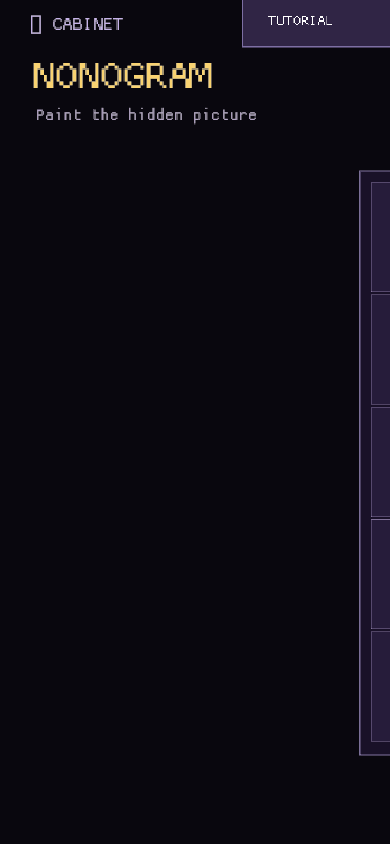
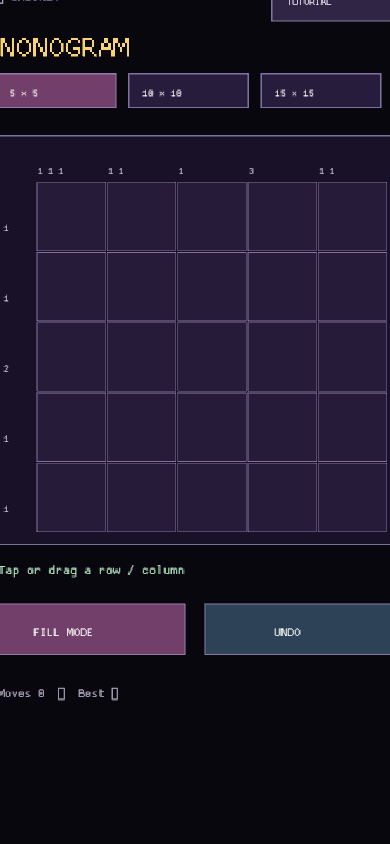
The hidden picture opens on a pocket-sized table (Compact Nonogram)
Added a compact portrait Nonogram layout with visible row and column clues, preset selection, fill/cross mode, undo, tap input, and axis-locked drag mapping. Kept the puzzle module separate from the compact cabinet/Sudoku UI to preserve the source-size gate. Verified the 390x844 capture, full tests, and publisher deployment.

diff --git a/src/responsive_puzzles.rs b/src/responsive_puzzles.rs
@@ -1,0 +1,196 @@
+//! Compact portrait layouts for dense grid puzzles.
+
+use crate::{
+    grid::GridLayout,
+    nonogram::{NonogramMark, NonogramMode, NonogramStatus},
+    state::AppState,
+    ui::UiAction,
+};
+use macroquad::prelude::*;
+
+fn panel(rect: Rect, fill: Color) {
+    draw_rectangle(rect.x, rect.y, rect.w, rect.h, fill);
+    draw_rectangle_lines(
+        rect.x,
+        rect.y,
+        rect.w,
+        rect.h,
+        2.,
+        Color::new(0.45, 0.38, 0.65, 0.65),
+    );
+}
+fn text(value: &str, x: f32, y: f32, size: f32, color: Color) {
+    draw_text(value, x, y, size, color);
+}
+
+const BOARD: Rect = Rect {
+    x: 5.,
+    y: 145.,
+    w: 350.,
+    h: 350.,
+};
+
+fn grid(state: &AppState) -> GridLayout {
+    GridLayout::new(
+        Rect::new(45., 185., 300., 300.),
+        state.nonogram.size,
+        state.nonogram.size,
+    )
+}
+
+pub fn draw_nonogram(state: &AppState) {
+    let game = &state.nonogram;
+    text("‹ CABINET", 10., 30., 14., Color::new(0.78, 0.70, 0.92, 1.));
+    text("NONOGRAM", 12., 78., 32., Color::new(0.98, 0.83, 0.45, 1.));
+    for (index, preset) in crate::nonogram::NonogramPreset::ALL.iter().enumerate() {
+        let rect = Rect::new(10. + index as f32 * 113., 92., 103., 30.);
+        panel(
+            rect,
+            if *preset == game.preset {
+                Color::new(0.45, 0.25, 0.42, 1.)
+            } else {
+                Color::new(0.16, 0.11, 0.24, 1.)
+            },
+        );
+        text(preset.label(), rect.x + 12., rect.y + 20., 11., WHITE);
+    }
+    panel(BOARD, Color::new(0.10, 0.07, 0.16, 1.));
+    let layout = grid(state);
+    for index in 0..game.marks.len() {
+        let cell = layout.cell_rect(index).unwrap();
+        let rect = Rect::new(cell.x, cell.y, cell.w - 1., cell.h - 1.);
+        let selected = game.selected == Some(index);
+        let fill = match game.marks[index] {
+            NonogramMark::Filled => Color::new(0.80, 0.52, 0.26, 1.),
+            NonogramMark::Crossed => Color::new(0.20, 0.14, 0.28, 1.),
+            NonogramMark::Empty if selected => Color::new(0.30, 0.22, 0.42, 1.),
+            NonogramMark::Empty => Color::new(0.15, 0.11, 0.23, 1.),
+        };
+        draw_rectangle(rect.x, rect.y, rect.w, rect.h, fill);
+        draw_rectangle_lines(
+            rect.x,
+            rect.y,
+            rect.w,
+            rect.h,
+            1.,
+            Color::new(0.48, 0.40, 0.60, 0.8),
+        );
+        if game.marks[index] == NonogramMark::Crossed {
+            text(
+                "×",
+                rect.x + rect.w * 0.28,
+                rect.y + rect.h * 0.70,
+                (rect.w * 0.7).min(20.),
+                Color::new(0.65, 0.58, 0.76, 1.),
+            );
+        }
+    }
+    for (index, clue) in game.row_clues.iter().enumerate() {
+        let label = clue
+            .iter()
+            .map(|value| value.to_string())
+            .collect::<Vec<_>>()
+            .join(" ");
+        text(
+            &label,
+            7.,
+            190. + index as f32 * layout.cell_height + layout.cell_height * 0.62,
+            (layout.cell_height * 0.30).min(11.),
+            Color::new(0.78, 0.73, 0.86, 1.),
+        );
+    }
+    for (index, clue) in game.column_clues.iter().enumerate() {
+        let label = clue
+            .iter()
+            .map(|value| value.to_string())
+            .collect::<Vec<_>>()
+            .join(" ");
+        text(
+            &label,
+            46. + index as f32 * layout.cell_width,
+            178.,
+            (layout.cell_width * 0.28).min(10.),
+            Color::new(0.78, 0.73, 0.86, 1.),
+        );
+    }
+    text(
+        if game.status == NonogramStatus::Won {
+            "Picture complete"
+        } else {
+            "Tap or drag a row / column"
+        },
+        12.,
+        520.,
+        14.,
+        Color::new(0.63, 0.95, 0.72, 1.),
+    );
+    panel(
+        Rect::new(12., 545., 160., 44.),
+        if game.mode == NonogramMode::Fill {
+            Color::new(0.45, 0.25, 0.42, 1.)
+        } else {
+            Color::new(0.20, 0.13, 0.30, 1.)
+        },
+    );
+    text(
+        if game.mode == NonogramMode::Fill {
+            "FILL MODE"
+        } else {
+            "CROSS MODE"
+        },
+        42.,
+        573.,
+        13.,
+        WHITE,
+    );
+    panel(
+        Rect::new(188., 545., 160., 44.),
+        Color::new(0.18, 0.26, 0.34, 1.),
+    );
+    text("UNDO", 247., 573., 13., WHITE);
+    text(
+        &format!(
+            "Moves {}  •  Best {}",
+            game.moves,
+            game.best_moves
+                .map_or("—".into(), |value| value.to_string())
+        ),
+        12.,
+        625.,
+        13.,
+        Color::new(0.68, 0.63, 0.78, 1.),
+    );
+}
+
+pub fn nonogram_clicks(state: &AppState, p: Vec2) -> Vec<UiAction> {
+    if Rect::new(0., 0., 110., 42.).contains(p) {
+        return vec![UiAction::Cabinet];
+    }
+    for (index, preset) in crate::nonogram::NonogramPreset::ALL.iter().enumerate() {
+        if Rect::new(10. + index as f32 * 113., 92., 103., 30.).contains(p) {
+            return vec![UiAction::NonogramPreset(*preset)];
+        }
+    }
+    if Rect::new(12., 545., 160., 44.).contains(p) {
+        return vec![UiAction::NonogramMode];
+    }
+    if Rect::new(188., 545., 160., 44.).contains(p) {
+        return vec![UiAction::NonogramUndo];
+    }
+    grid(state)
+        .index_at(p)
+        .map_or_else(Vec::new, |index| vec![UiAction::NonogramCell(index)])
+}
+
+pub fn nonogram_drag_actions(state: &AppState, start: Vec2, end: Vec2) -> Vec<UiAction> {
+    let layout = grid(state);
+    let to_cell = |point: Vec2| layout.coordinate_at(point);
+    let (start, end) = match (to_cell(start), to_cell(end)) {
+        (Some(start), Some(end)) => (start, end),
+        _ => return Vec::new(),
+    };
+    crate::nonogram::stroke_indices(state.nonogram.size, start, end)
+        .into_iter()
+        .map(UiAction::NonogramCell)
+        .collect()
+}

diff --git a/src/ui.rs b/src/ui.rs
@@ -9,6 +9,7 @@ use crate::library_ui;
 use crate::nonogram_ui;
 use crate::palette_ui;
 use crate::records_ui;
+use crate::responsive_puzzles;
 use crate::responsive_ui;
 use crate::reversi_ui;
 use crate::settings_ui;
@@ -145,6 +146,9 @@ pub fn clicks(state: &AppState) -> Vec<UiAction> {
         Screen::Game(GameId::Minesweeper) => mine_clicks(state, p),
         Screen::Game(GameId::Sudoku) if is_portrait() => responsive_ui::sudoku_clicks(state, p),
         Screen::Game(GameId::Sudoku) => sudoku_ui::sudoku_clicks(state, p),
+        Screen::Game(GameId::Nonogram) if is_portrait() => {
+            responsive_puzzles::nonogram_clicks(state, p)
+        }
         Screen::Game(GameId::Nonogram) => nonogram_ui::nonogram_clicks(state, p),
         Screen::Game(GameId::Solitaire) => solitaire_ui::solitaire_clicks(state, p),
         Screen::Game(GameId::FreeCell) => freecell_ui::freecell_clicks(state, p),
@@ -177,6 +181,7 @@ pub fn draw(state: &AppState, data: &GameData, loaded_assets: usize) {
         Screen::Game(GameId::Minesweeper) => draw_minesweeper(state),
         Screen::Game(GameId::Sudoku) if is_portrait() => responsive_ui::draw_sudoku(state),
         Screen::Game(GameId::Sudoku) => sudoku_ui::draw_sudoku(state),
+        Screen::Game(GameId::Nonogram) if is_portrait() => responsive_puzzles::draw_nonogram(state),
         Screen::Game(GameId::Nonogram) => nonogram_ui::draw_nonogram(state),
         Screen::Game(GameId::Solitaire) => solitaire_ui::draw_solitaire(state),
         Screen::Game(GameId::FreeCell) => freecell_ui::draw_freecell(state),

diff --git a/src/game.rs b/src/game.rs
@@ -8,7 +8,7 @@ use crate::{
     data::GameData,
     state::{AppState, CollectionSave, Direction, GameId, GameSnapshot, ProfileSave, Screen},
 };
-use crate::{nonogram_ui, ui};
+use crate::{nonogram_ui, responsive_puzzles, ui};
 use macroquad::prelude::*;
 use macroquad_toolkit::assets::AssetManager;
 use macroquad_toolkit::notifications::{
@@ -107,7 +107,12 @@ impl Game {
                     Gesture::Drag { start, end }
                         if self.state.screen == Screen::Game(GameId::Nonogram) =>
                     {
-                        for action in nonogram_ui::drag_actions(&self.state, start, end) {
+                        let actions = if ui::is_portrait() {
+                            responsive_puzzles::nonogram_drag_actions(&self.state, start, end)
+                        } else {
+                            nonogram_ui::drag_actions(&self.state, start, end)
+                        };
+                        for action in actions {
                             self.apply(action);
                         }
                     }

diff --git a/src/main.rs b/src/main.rs
@@ -19,6 +19,7 @@ mod nonogram_ui;
 mod palette_ui;
 mod progression;
 mod records_ui;
+mod responsive_puzzles;
 mod responsive_ui;
 mod reversi;
 mod reversi_ui;

diff --git a/TODO.md b/TODO.md
@@ -27,7 +27,7 @@ sizes, covered by rule tests, and passes `publish.ps1`.
 - [ ] Implement safe viewport handling and compact/medium/expanded layouts.
   - [x] Add an aspect-preserving logical viewport with letterbox edge rejection.
   - [x] Add a full-size compact portrait canvas for the cabinet, 2048, Sudoku,
-    and Settings flows.
+    Nonogram, and Settings flows.
 - [ ] Normalize touch/pointer input with tap, drag, swipe, cancel, and edge rules.
   - [x] Normalize pointer taps, drags, cancellations, and logical edge rules.
 - [x] Build 44-point-minimum shared controls, modal sheets, help, and settings.
@@ -115,8 +115,8 @@ sizes, covered by rule tests, and passes `publish.ps1`.
   - [x] Cover all eight independent game snapshots and migration defaults for
     progression and cosmetic fields.
 - [ ] Audit touch-only completion on iPhone/iPad portrait and landscape sizes.
-  - [x] Verify touch-sized portrait cabinet, 2048, Sudoku, and Settings
-    controls at 390×844.
+  - [x] Verify touch-sized portrait cabinet, 2048, Sudoku, Nonogram, and
+    Settings controls at 390×844.
 - [ ] Run the complete capture matrix, replace duplicate-state images, and update
   the catalog thumbnail with the final cabinet.
 - [ ] Complete final `cargo fmt`, tests, warning-free Clippy, and `publish.ps1`.
